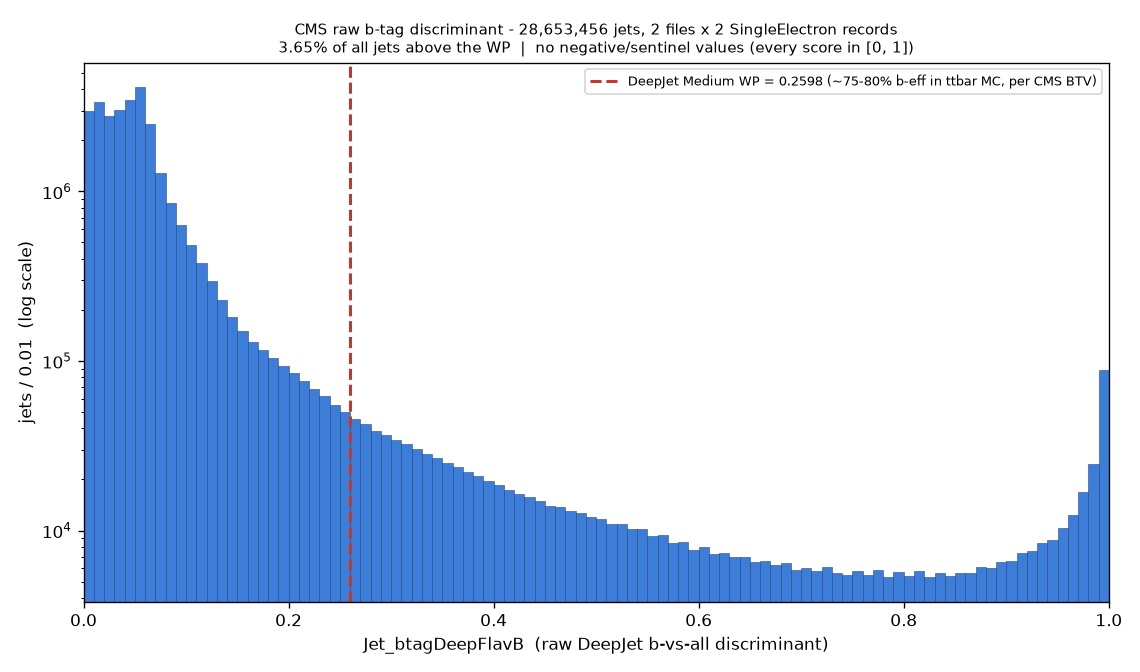
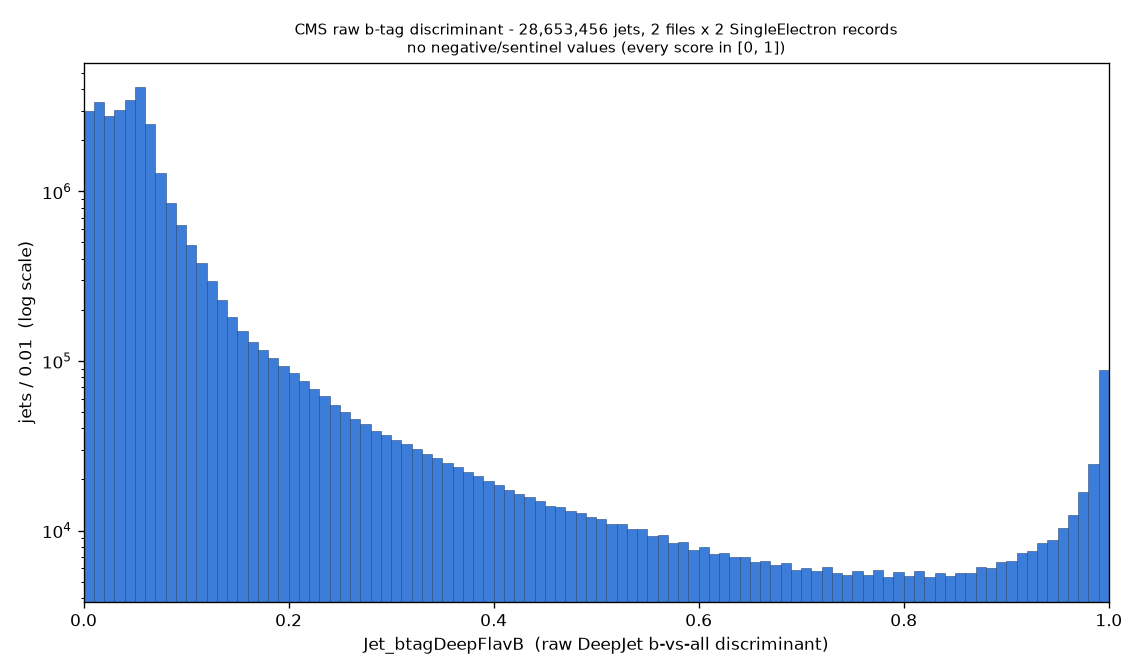
btag score dist: drop the WP line + efficiency comparison; keep raw plots only
Both plots now show only the raw, unannotated Jet_btagDeepFlavB distribution:
- removed the dashed DeepJet Medium WP line from btag_score_all.png and
  btag_score_by_record.png
- removed the "0.2598" / "~75-80% b-eff / CMS BTV" line label and the
  "% above WP" text from the combined plot's subtitle (kept only the
  negative/sentinel-value note)

Report:
- removed the "How the CMS Medium WP compares to ATLAS's 77% operating point"
  paragraph (no efficiency assertion in this deliverable)
- reworded the "where 0.2598 falls" text so it no longer points at a plot line
  ("not marked on the plot"), and the caveat so it no longer cites the removed
  75-80% / 77% numbers
- kept the negative/sentinel check as its own plain finding: 0 of 28,653,456
  jets outside [0,1], min 0.00093, max 0.99951
- kept the factual "how many jets fall above 0.2598" table and the
  "why not 7.69%" explanation (jet-count facts, no efficiency claim)

stats.json: dropped medium_wp_label (had the efficiency text); medium_wp: 0.2598
kept as a bare reference value.

Plots regenerated via --replot-from hist_cache.json - no XRootD, underlying
data unchanged (same 28,653,456 jets).

Claude-Session: https://claude.ai/code/session_01PjEnqpJZWkgpUFtrMqZyv6

Changed region(s): [[0.2456, 0.0625, 0.9825, 0.1562]]

diff --git a/scripts/btag_score_distribution.py b/scripts/btag_score_distribution.py
@@ -43,10 +43,10 @@ import matplotlib
 matplotlib.use("Agg")
 import matplotlib.pyplot as plt
 
-MEDIUM_WP = 0.2598  # DeepJet Medium WP, UL2016 post-VFP - the b-jet test's cut
-# CMS defines this WP by a target light-flavour mistag rate (~1%); the resulting
-# b-jet efficiency, from CMS's own ttbar-based measurements, is ~75-80%.
-MEDIUM_WP_LABEL = "DeepJet Medium WP = 0.2598 (~75-80% b-eff in ttbar MC, per CMS BTV)"
+# The b-jet test's cut value, kept only so stats.json can report how many jets
+# fall above it. It is NOT drawn on the plots - they show the raw, unannotated
+# distribution only.
+MEDIUM_WP = 0.2598
 
 RECORDS = {
     30529: "SingleElectron Run2016G",
@@ -145,17 +145,14 @@ def plot_all(counts: np.ndarray, all_desc: dict, files_per_record: int, out_png:
     centers = 0.5 * (BINS[:-1] + BINS[1:])
     ax.bar(centers, counts, width=0.01, align="center", color="#3b7dd8",
            edgecolor="#1f3f6e", lw=0.3)
-    ax.axvline(MEDIUM_WP, color="#c0392b", ls="--", lw=1.8, label=MEDIUM_WP_LABEL)
     ax.set_yscale("log")
     ax.set_xlabel("Jet_btagDeepFlavB  (raw DeepJet b-vs-all discriminant)")
     ax.set_ylabel("jets / 0.01  (log scale)")
     ax.set_title(
         f"CMS raw b-tag discriminant - {all_desc['n_jets']:,} jets, "
         f"{files_per_record} files x 2 SingleElectron records\n"
-        f"{all_desc['frac_above_wp'] * 100:.2f}% of all jets above the WP  |  "
         f"{_outside_note(all_desc)}",
         fontsize=9)
-    ax.legend(fontsize=8)
     ax.set_xlim(0, 1)
     fig.tight_layout()
     fig.savefig(out_png, dpi=120)
@@ -171,7 +168,6 @@ def plot_by_record(per_counts: dict, per_desc: dict, out_png: Path):
         ax.stairs(dens, BINS, lw=1.7, color=colors[int(rid)],
                   label=f"{rid}  {per_desc[str(rid)]['name']}  "
                         f"({per_desc[str(rid)]['n_jets']:,} jets)")
-    ax.axvline(MEDIUM_WP, color="#c0392b", ls="--", lw=1.8, label=MEDIUM_WP_LABEL)
     ax.set_yscale("log")
     ax.set_xlabel("Jet_btagDeepFlavB  (raw DeepJet b-vs-all discriminant)")
     ax.set_ylabel("normalised density / 0.01  (log scale)")
@@ -248,8 +244,7 @@ def main() -> int:
         f"out of {all_scores.size:,} jets")
 
     stats = {
-        "medium_wp": MEDIUM_WP,
-        "medium_wp_label": MEDIUM_WP_LABEL,
+        "medium_wp": MEDIUM_WP,  # reference cut value only; not drawn on the plots
         "files_per_record": args.files_per_record,
         "records": {str(k): v for k, v in RECORDS.items()},
         "n_events_per_record": {str(k): int(v) for k, v in n_events.items()},

diff --git a/reports/btag_score_distribution/summary.md b/reports/btag_score_distribution/summary.md
@@ -1,7 +1,8 @@
 # CMS raw b-tag discriminant (`Jet_btagDeepFlavB`) distribution
 
-**Date:** 2026-09-06 (revised same day: WP-line label + ATLAS-comparison note +
-explicit negative/sentinel-value check)
+**Date:** 2026-09-06 (revised same day: the plots now show only the raw,
+unannotated distribution - no working-point line and no threshold/efficiency
+text; the explicit negative/sentinel-value check is kept)
 **Branch:** `analysis/btag-score-distribution`
 **Script:** `scripts/btag_score_distribution.py` (run under the WSL venv
 `~/btag_work/venv` - XRootD has no Windows wheel)
@@ -14,9 +15,8 @@ branch `test/cms-bjet-with-histograms`) confirms b-tagging runs and tags
 ~7.69 % of jets at the DeepJet **Medium** working point
 (`Jet_btagDeepFlavB > 0.2598`). Before b-tagging is considered for real
 production scope, Maryna asked to see the **raw discriminant score itself** -
-its shape, and where the 0.2598 cut sits in it - so it can be eyeballed against
-how ATLAS defines its own operating points (efficiency-defined, e.g. "77 %";
-this repo's `config.yaml` uses a DL1d threshold of 2.51 for that purpose).
+its shape - and, for reference, where the 0.2598 cut used by the b-jet test
+falls within it.
 
 The pipeline parser only ever stores the final tagged/untagged split, so the
 score was re-read directly from the CERN NanoAOD source files - **the exact same
@@ -50,8 +50,8 @@ never-expected `score > 1`:
 
 `min` = 0.00093, `max` = 0.99951. So nothing had to be excluded and the
 histogram below covers the complete jet set. (`stats.json` records this per
-record too; the script would annotate the plot and exclude them from the [0, 1]
-histogram if any were present.)
+record too; the plot subtitle states the count, and any out-of-range jets would
+be excluded from the [0, 1] histogram - here there are none.)
 
 ## The distribution - all 28.65M jets
 
@@ -70,35 +70,14 @@ light-jet peak at ~0 and a much smaller genuine b-jet accumulation near 1,
 separated by a low-density valley. This is the textbook shape of a well-behaved
 b-vs-all discriminant on real data.
 
-**Where the Medium WP (0.2598) sits:** out on the falling tail of the light-jet
-peak, between the 95th and 99th percentile of all jets. At that point the
-light-jet contribution has dropped ~2 orders of magnitude from its peak but is
-still well above the valley floor, so the selected region (score > 0.2598) is a
-mix - the tail of the light-jet fall-off plus the rising b-jet population, with
-b's only clearly dominating above ~0.85. The dashed line is labelled
-"DeepJet Medium WP = 0.2598 (~75-80% b-eff in ttbar MC, per CMS BTV)" - see the
-comparison note below for what that efficiency figure means.
+**For reference, where the b-jet test's 0.2598 cut falls** (not marked on the
+plot): out on the falling tail of the light-jet peak, between the 95th and 99th
+percentile of all jets. At that point the light-jet contribution has dropped
+~2 orders of magnitude from its peak but is still well above the valley floor,
+so the region above 0.2598 is a mix - the tail of the light-jet fall-off plus
+the rising b-jet population, with b's only clearly dominating above ~0.85.
 
-### How the CMS Medium WP compares to ATLAS's 77% operating point
-
-CMS and ATLAS define their "medium"-style b-tag cuts with **different design
-philosophies but land in a similar practical zone**. CMS's DeepJet Medium
-working point is fixed by a **target light-flavour mistag rate (~1%)**, not by a
-b-jet efficiency directly; the b-jet efficiency that results from that choice,
-per CMS's own published ttbar-based measurements, works out to roughly
-**75-80%**. ATLAS's DL1d 77% operating point (`config.yaml`, `DL1d: 2.51`) is
-instead defined **directly as a target b-efficiency of 77%**. So the two are
-comparable in spirit and end up in a similar practical efficiency range, even
-though one is anchored on mistag rate and the other on b-efficiency.
-
-We **cannot** draw a matching "77%-of-true-b-jets" line on this histogram
-ourselves: that requires generator-level (MC truth) flavour labels to know which
-jets are really b-jets, and real CMS Open Data collision events do not carry
-them. The ~75-80% figure above comes from each experiment's own
-separately-published, simulation-based efficiency measurements - it is **not**
-derived from this real-data plot.
-
-**How many the cut selects:**
+**How many jets fall above 0.2598:**
 
 | | jets | above 0.2598 | below |
 |---|---:|---:|---:|
@@ -126,29 +105,27 @@ scope. The split that *is* available is the two SingleElectron run eras:
 
 ![raw discriminant, by record](plots/btag_score_by_record.png)
 
-| | jets | median | p99 | frac > WP |
+| | jets | median | p99 | frac > 0.2598 |
 |---|---:|---:|---:|---:|
 | 30529 SingleElectron Run2016G | 5,207,157 | 0.0459 | 0.717 | 3.58 % |
 | 30562 SingleElectron Run2016H | 23,446,299 | 0.0467 | 0.736 | 3.67 % |
 
 **The two shapes are indistinguishable.** Normalised, the two histogram traces
 sit on top of each other across the whole 0-1 range (see plot). Median differs
-by 0.0008; the fraction above the WP differs by 0.09 percentage points. There is
+by 0.0008; the fraction above 0.2598 differs by 0.09 percentage points. There is
 **no meaningful difference between the two run eras** - stated plainly, not
 manufactured.
 
 ## Caveat - what this plot is and is not
 
-This is **real collision data with no generator-level (MC truth) labels**. We
-can see exactly where the CMS Medium-WP cut falls in the discriminant
-distribution and what fraction of jets it selects - a useful visual and sanity
-check of *where the cut sits*. It is **not** a cross-experiment calibration
-proof and it does **not** show *that* the CMS and ATLAS "medium" cuts are
-efficiency-equivalent. The ~75-80% b-efficiency for CMS's Medium WP and the 77%
-for ATLAS's DL1d point (see the comparison note above) both come from each
-experiment's own separately-published, MC-calibrated measurements - neither is
-derivable from this real-data histogram, and we did not compute any new
-threshold from the data (the 0.2598 cut is unchanged).
+This is **real collision data with no generator-level (MC truth) labels**. The
+plots show the raw `Jet_btagDeepFlavB` distribution and nothing else - no
+working-point line, no efficiency numbers. We can *describe* the shape and, in
+the text, note where the b-jet test's 0.2598 cut would fall, but we **cannot**
+turn that into a b-tagging efficiency from this data: knowing what fraction of
+*true* b-jets a cut keeps needs MC truth flavour labels, which real Open Data
+events do not carry. No new threshold was computed or changed here - the 0.2598
+value is quoted only as the existing b-jet test's cut, for orientation.
 
 ## Connectivity note
 
